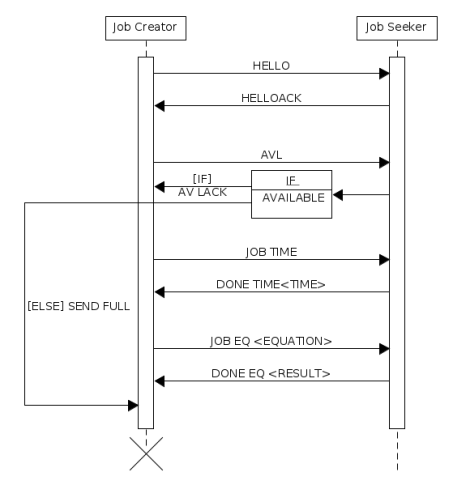
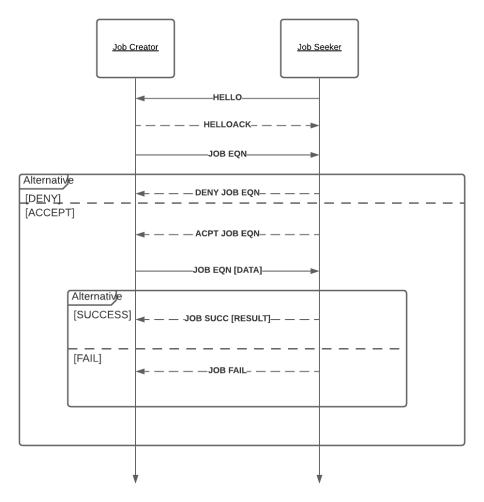
new diagram and started seeker rework

diff --git a/Seeker/seeker.go b/Seeker/seeker.go
@@ -14,41 +14,59 @@ import (
 	"github.com/Knetic/govaluate"
 )
 
-type IdvSession struct {
-	id         int64
-	state      int
-	connection net.Conn
-}
-
 func main() {
 	// read port from console
 	reader := bufio.NewReader(os.Stdin)
-	fmt.Print("Enter port:")
+	fmt.Print("Enter address to connect to:")
+	addr, _ := reader.ReadString('\n')
+
+	fmt.Print("Enter port to connect to:")
 	port, _ := reader.ReadString('\n')
-	// add the address and get rid of the \n at the end of port
-	addr := "127.0.0.1:" + port[:len(port)-1]
+	// add the address and get rid of the \n at the end
+	fullAddr := addr[:len(addr)-1] + port[:len(port)-1]
 	fmt.Println(addr)
 
-	// open port for tcp connection
-	tcpAddr, err := net.ResolveTCPAddr("tcp", addr)
+	// set timeout and connection
+	timeout, err := time.ParseDuration("5s")
+	conn, err := net.DialTimeout("tcp", fullAddr, timeout)
 	checkError(err)
 
-	// create a listener on that open port
-	listener, err := net.ListenTCP("tcp", tcpAddr)
-	checkError(err)
-
-	// the mutex makes it memory safe
-	var mutex sync.Mutex
-	queue := list.New()
-
+	// state
+	// 0 initial connection
+	// 1 waiting for HELLOACK
+	// 2 first JOB EQN
+	// 3 accepted and waiting for second JOB EQN
+	// 4 closed
+	state := 0
 	for {
-		conn, err := listener.Accept()
-		// if error go through close connection process
+		result, err := ioutil.ReadAll(conn)
+		// clean the result and avoid error
+		var cleanedResult string
 		if err != nil {
-			closeConnection(conn)
+			continue
+		} else {
+			cleanedResult = strings.TrimSpace(string(result))
 		}
 
-		go handleConnection(conn, &mutex, queue)
+		// send HELLO at initial connection
+		if state == 0 {
+			conn.Write([]byte("HELLO"))
+		} else if state == 1 && cleanedResult == "HELLOACK" {
+			state = 2
+		} else if state == 2 && cleanedResult == "JOB EQN" {
+			conn.Write([]byte("ACPT JOB EQN"))
+			state = 3
+		} else if state == 3 && cleanedResult[:7] == "JOB EQN" {
+			expression, err := govaluate.NewEvaluableExpression(cleanedResult[6:])
+			if err != nil {
+				conn.Write([]byte("JOB FAIL"))
+			}
+			expResult, err := expression.Evaluate(nil)
+			if err != nil {
+				conn.Write([]byte("JOB FAIL"))
+			}
+			conn.Write([]byte("DONE EQ " + expResult.(string)))
+		}
 	}
 }
 
